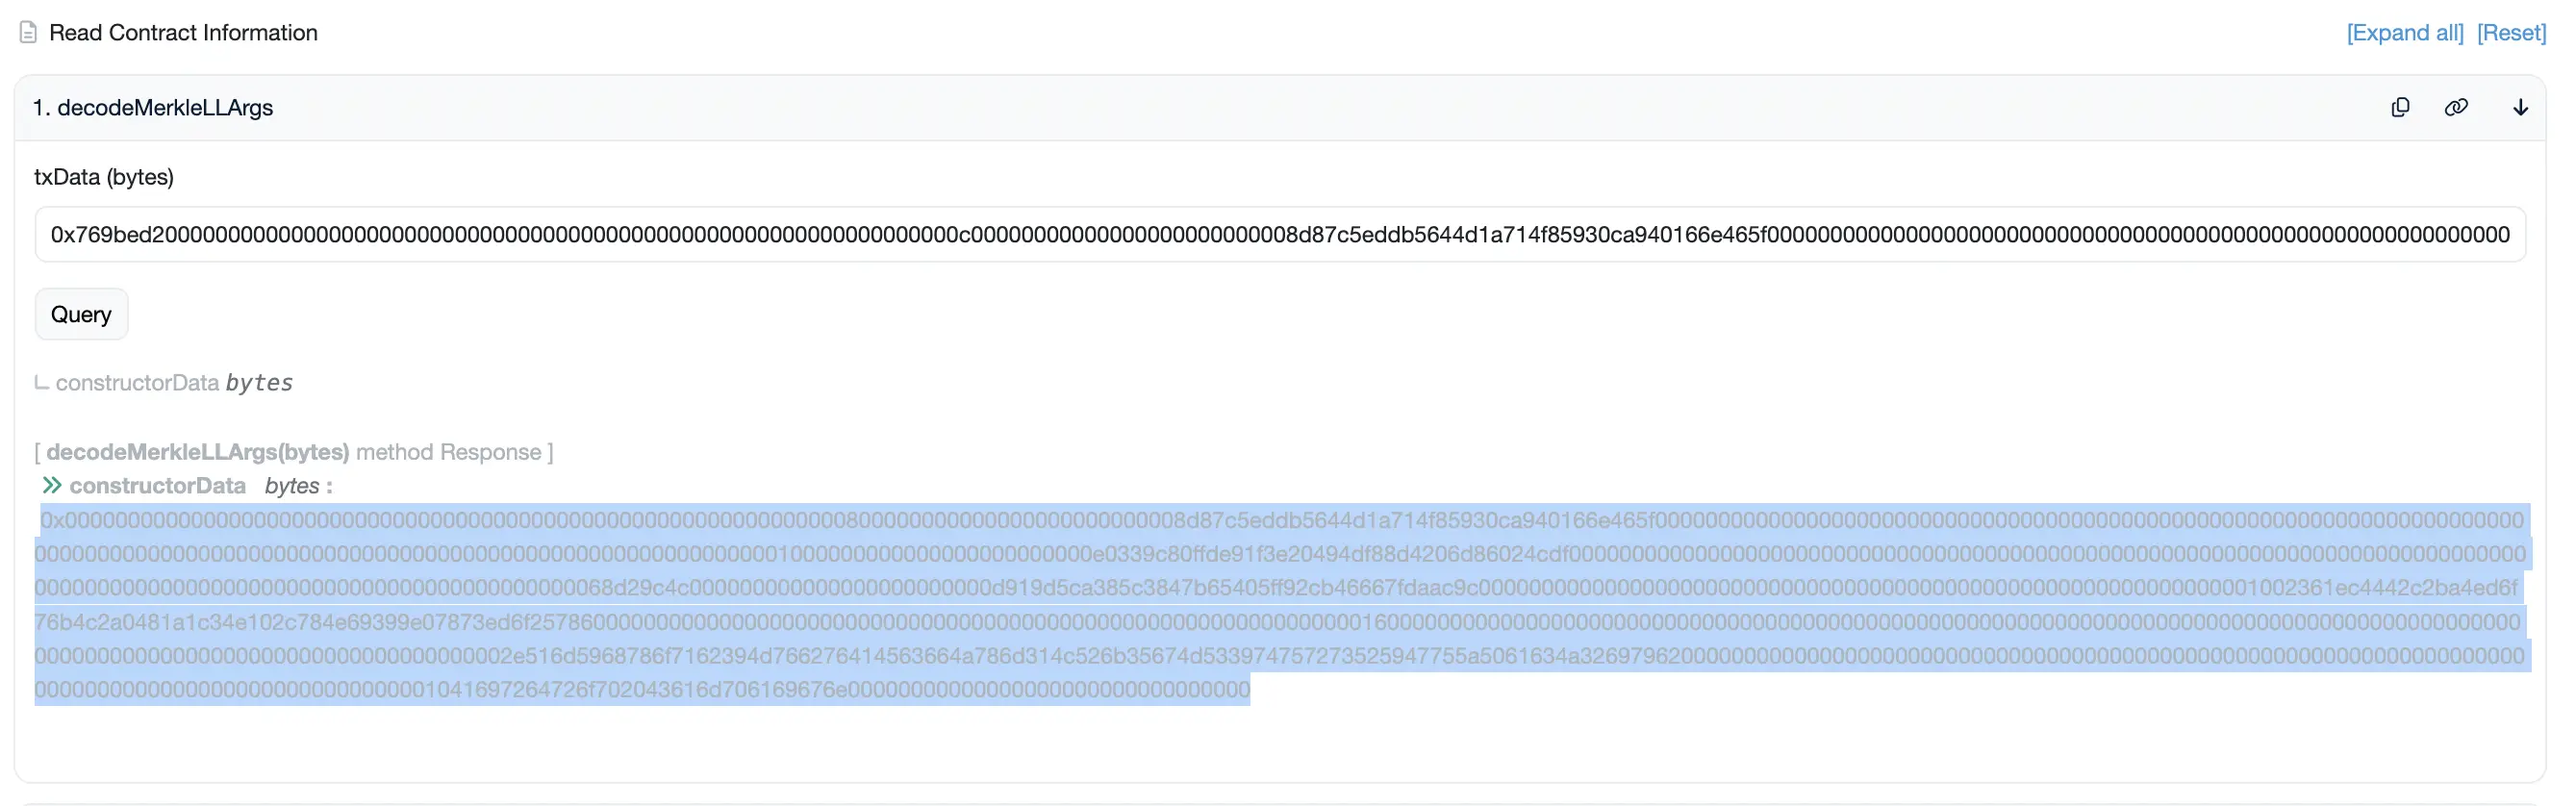
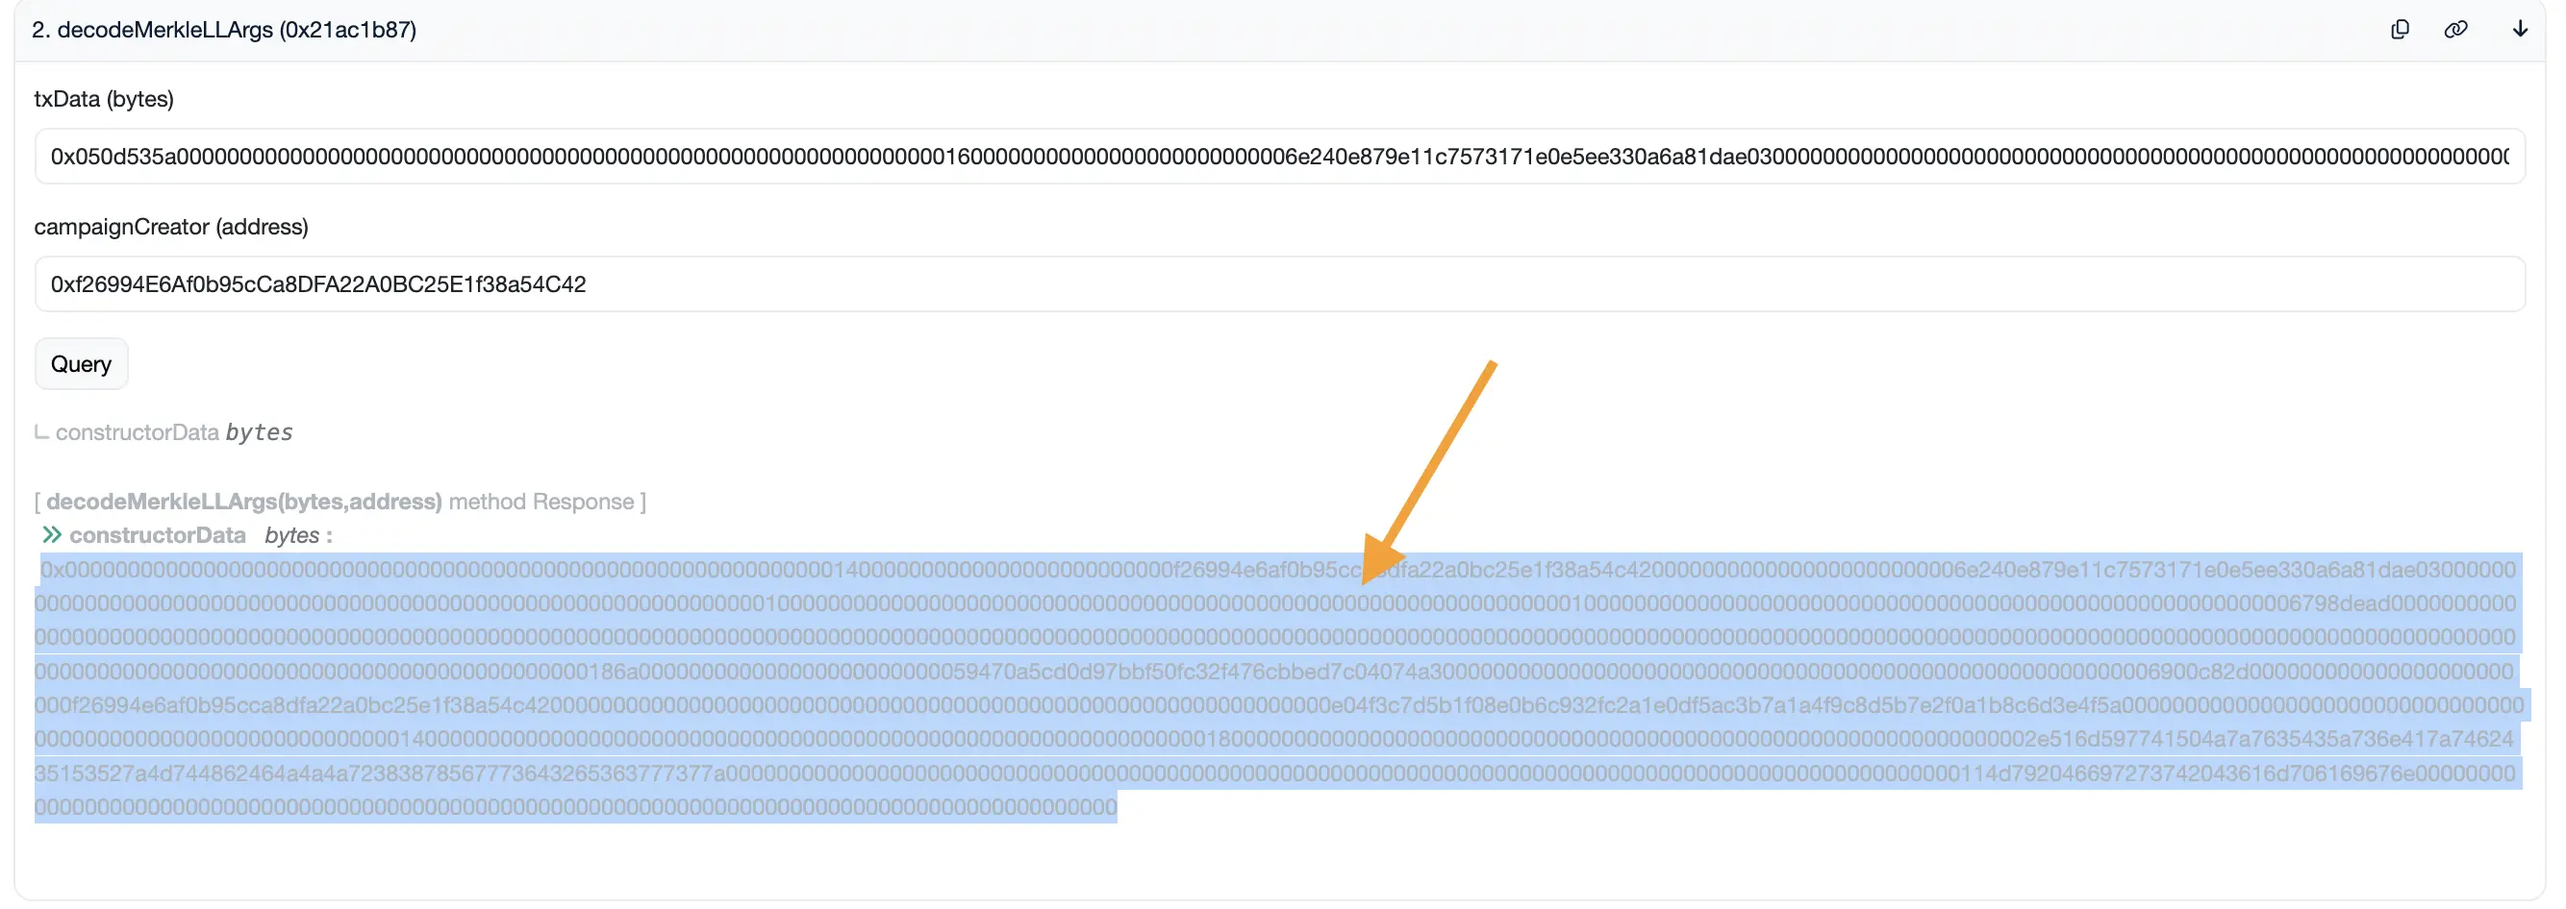
docs: use latest NFT SVG, add campaign verification and etherscan guides

diff --git a/docs/guides/lockup/05-etherscan.md b/docs/guides/lockup/05-etherscan.md
@@ -26,8 +26,7 @@ allowance. See the [Allowances](#prerequisite-erc20-allowances) section below fo
 ### Step 1: Go to contract page
 
 Head over to our [deployments](/guides/lockup/deployments) list to pick the contract address you want to interact with.
-For each chain, that will be either `SablierV2LockupLinear`, `SablierV2LockupDynamic`, or `SablierV2LockupTranched`. In
-this tutorial, we will create a **LockupLinear** stream on Sepolia.
+In this tutorial, we will create a Lockup stream on Sepolia.
 
 Once you find the right contract, click on the address to access its explorer's page. Click on the "Contract" tab, and
 then on the "Write Contract" sub-tab.
@@ -44,34 +43,45 @@ You can now connect your wallet to the interface by clicking on "Connect to Web3
 
 We will now proceed to create our first stream. Let's go with the following parameters:
 
-- a `LockupLinear` stream
-- and a deposit of 20,000 DAI
-- starting Jan 1, 2025
-- ending Jan 1, 2026
-- with no cliff
+- a Lockup Linear stream
+- and a deposit of 100 DAI
+- starting Jan 27, 2025
+- ending Jan 27, 2026
+- with cliff until Jan 30, 2025 and cliff amount of 2 DAI
+- no token unlock at start time
 - non-cancelable
 - and transferrable
 
 As the start and end date are fixed, we'll be using the
-[`createWithTimestamps`](/reference/lockup/contracts/interfaces/interface.ISablierLockup#createwithtimestampsll) method.
-Please note that using
-[`createWithDurations`](/reference/lockup/contracts/interfaces/interface.ISablierLockup#createwithdurationsll) is also
+[`createwithtimestampsLL`](/reference/lockup/contracts/interfaces/interface.ISablierLockup#createwithtimestampsll)
+method. Please note that using
+[`createwithdurationsLL`](/reference/lockup/contracts/interfaces/interface.ISablierLockup#createwithdurationsll) is also
 possible if you specify durations instead of the timestamps.
 
-Open the **"createWithTimestamps"** method, and start filling in the stream details:
+Open the **"createwithtimestampsLL"** method, and start filling in the stream details:
+
+:::note
+
+All functions are marked as `payable`, however, its entirely optional to attach any value (in native token) to the
+transaction. For this example, we will not be attaching any value and therefore `payableAmount(ether)` will be 0.
+
+:::
 
 ![Etherscan 04](/img/etherscan-tutorial/04.webp)
 
 ```json
 {
-  "sender": "0xe0ae83a6b9cc4f24d0638dc27179f311671e4e2a",
+  "sender": "0xf26994E6Af0b95cCa8DFA22A0BC25E1f38a54C42",
   "recipient": "0xb4bf8a8475d1e8e9a2088f118ad0e2cdc2896183",
-  "totalAmount": 20000000000000000000000,
-  "asset": "0x97cb342cf2f6ecf48c1285fb8668f5a4237bf862",
+  "totalAmount": 100000000000000000000,
+  "token": "0x3DcBc355c5B5FdF45D2d2ccc8890d76C5b30394A",
   "cancelable": false,
   "transferable": true,
-  "timestamps": [1704067200, 0, 1735689600],
-  "broker": ["0x0000000000000000000000000000000000000000", 0]
+  "timestamps": [1737936000, 1769472000],
+  "shape": "",
+  "broker": ["0x0000000000000000000000000000000000000000", 0],
+  "unlockAmounts": ["0", "2000000000000000000"],
+  "cliffTime": 1738195200
 }
 ```
 
@@ -80,14 +90,17 @@ provide it like this:
 
 ```json
 [
-  "0xe0ae83a6b9cc4f24d0638dc27179f311671e4e2a",
+  "0xf26994E6Af0b95cCa8DFA22A0BC25E1f38a54C42",
   "0xb4bf8a8475d1e8e9a2088f118ad0e2cdc2896183",
-  "20000000000000000000000",
-  "0x97cb342cf2f6ecf48c1285fb8668f5a4237bf862",
+  100000000000000000000,
+  "0x3DcBc355c5B5FdF45D2d2ccc8890d76C5b30394A",
   false,
   true,
-  [1704067200, 0, 1735689600],
-  ["0x0000000000000000000000000000000000000000", 0]
+  [1737936000, 1769472000],
+  "",
+  ["0x0000000000000000000000000000000000000000", 0],
+  ["0", "2000000000000000000"],
+  1738195200
 ]
 ```
 
@@ -106,7 +119,7 @@ from Etherscan to learn how to correctly format input data for Write Contract ta
 
 As an example, in the screenshot below, we are providing input parameters for
 [`createWithTimestampsLL`](/reference/lockup/contracts/contract.SablierBatchLockup#createwithtimestampsll) function in
-[`SablierV2BatchLockup`](https://sepolia.etherscan.io/address/0x04A9c14b7a000640419aD5515Db4eF4172C00E31#writeContract)
+[`SablierBatchLockup`](https://sepolia.etherscan.io/address/0x04A9c14b7a000640419aD5515Db4eF4172C00E31#writeContract)
 contract. As you can see, since `batch` requires a tuple and does not break it down into separate fields, we had to use
 the above method.
 
@@ -137,12 +150,12 @@ total amount should be equal to the streamed amount plus the broker fee amount.
 
 :::
 
-#### Asset
+#### Token
 
-The asset is the contract address of the ERC-20 token being streamed. You can obtain this from the
-[Sablier Interface](#step-1-go-to-token-page) or from any other
-[Etherscan explorer](https://etherscan.io/token/0x68194a729C2450ad26072b3D33ADaCbcef39D574). Please double check the
-token address is correct before continuing.
+The token is the contract address of the ERC-20 token being streamed. You can obtain this from the
+[Sablier Interface](#step-1-go-to-token-page) or from
+[Etherscan explorer](https://sepolia.etherscan.io/token/0x776b6fc2ed15d6bb5fc32e0c89de68683118c62a). Please double check
+the token address is correct before continuing.
 
 #### Cancelable
 
@@ -161,23 +174,30 @@ This flag cannot be changed later.
 
 #### Timestamps
 
-The `timestamps` field contains the start time, cliff time, and the end time of the stream, in this order. The values
-should be UNIX timestamps (represented in **seconds**). You can find a Unix timestamp converter
-[here](https://www.unixtimestamp.com/).
+The `timestamps` field contains the start time, and the end time of the stream, in this order. The values should be UNIX
+timestamps (represented in **seconds**). You can find a Unix timestamp converter [here](https://www.unixtimestamp.com/).
 
-If you prefer to not have a cliff, you can simply set the cliff time to 0, like in this example. If, however, you want
-to have a cliff, fill in the timestamp for the cliff there.
+#### Shape
 
-| Total Duration | Cliff Duration | [Start, Cliff, End]                    |
-| :------------- | :------------- | -------------------------------------- |
-| 1 year         | no cliff       | `[1704067200, 0, 1735689600]`          |
-| 1 year         | 1 day          | `[1704067200, 1704153600, 1735689600]` |
+The shape field can be used to specify the shape of the stream that you want the User Interface to display. This is an
+optional field and can be left empty.
 
 #### Broker
 
 An optional parameter that can be set in order to charge a fee as a percentage of `totalAmount`.
 
 You can set the `broker` field to address zero and `zero` fees. Read more about fees [here](/concepts/fees#broker-fee).
+
+#### Unlock Amounts
+
+The `unlockAmounts` field contains the amount of tokens that will be unlocked at the start time and at the cliff time.
+For this example, we do not want to unlock any amount at the start time, however, we want to unlock 2 DAI at the cliff
+time.
+
+#### Cliff Time
+
+If you prefer to not have a cliff, you can simply set the cliff time to 0. If, however, you want to have a cliff, fill
+in the timestamp for the cliff there.
 
 :::caution
 
@@ -194,10 +214,10 @@ your wallet, and your stream should appear like this:
 
 ![Etherscan 05](/img/etherscan-tutorial/05.webp)
 
-#### How about `createWithDurations`?
+#### How about [`createWithDurationsLL`](/reference/lockup/contracts/contract.SablierLockup#createwithdurationsll)?
 
-For the durations version, we'll replace the `timestamps` parameter with `durations` to represent the total duration of
-the stream (in seconds) and the duration of the cliff (in seconds).
+For the durations version, we'll replace the `timestamps` and `cliffTime` parameters with a single `durations` parameter
+to represent the total duration of the stream (in seconds) and the duration of the cliff (in seconds).
 
 ```json
 {
@@ -216,7 +236,7 @@ the stream (in seconds) and the duration of the cliff (in seconds).
 
 To withdraw from a stream using Etherscan, you will need to obtain the stream's ID. To obtain this without the Sablier
 Interface, find the transaction which created the stream on Etherscan. Here's an
-[example](https://sepolia.etherscan.io/tx/0xe1beef35643bd40ca17e8bf8ced365fe1cace475dbbf4ce4c41e7f299b741dce) of what it
+[example](https://sepolia.etherscan.io/tx/0xf40e0a5ccf134aaa889f2e5d040f5f4fc3bc157298cdac7a2a620a3d784ebbd1) of what it
 should look like.
 
 Once found, you will see the stream ID between the two brackets. Note that stream ID and "Token ID" are the same thing.
@@ -255,8 +275,8 @@ Head over to the **`withdraw`** method, and fill in the data.
 
 ```json
 {
-  "streamId": 169,
-  "to": "0xb4bf8a8475d1e8e9a2088f118ad0e2cdc2896183",
+  "streamId": 1,
+  "to": "0xb1bEF51ebCA01EB12001a639bDBbFF6eEcA12B9F",
   "amount": 100000000000000000000
 }
 ```
@@ -326,7 +346,7 @@ use a proxy pattern. For these, you have to use the "Write as Proxy" tab.
 ### Step 3: Send transaction
 
 For the purpose of creating a **LockupLinear** stream with Lockup, the spender will be the
-[SablierV2LockupLinear](/guides/lockup/deployments) contract.
+[SablierLockup](/guides/lockup/deployments) contract.
 
 As for the amount, you'll have to pad it with the right number of decimals. For DAI, that's 18 decimals, so a value of
 `100` will turn into `100 * 1e18` (100 followed by 18 zeroes). For USDC,that's 6 decimals, so a value of `100` will turn
@@ -335,7 +355,7 @@ the stream.
 
 ```json
 {
-  "spender": "0x3E435560fd0a03ddF70694b35b673C25c65aBB6C",
+  "spender": "0xd116c275541cdBe7594A202bD6AE4DBca4578462",
   "amount": 100000000000000000000
 }
 ```

diff --git a/docs/guides/airdrops/04-campaign-verification.md b/docs/guides/airdrops/04-campaign-verification.md
@@ -10,8 +10,8 @@ When the airdrop campaign contract is deployed for the first time on a chain, th
 it public and viewable on Etherscan. This guide will walk you through the process of verifying the campaign contract on
 Etherscan. If you get stuck, you can ask for help on [Discord](https://discord.sablier.com).
 
-As an example, we will use the `SablierMerkleLL` contract deployed on Polygon at
-[0x8BBe24ceee464e8A136fA19D2D099E2917837776](https://polygonscan.com/address/0x8bbe24ceee464e8a136fa19d2d099e2917837776).
+As an example, we will use the `SablierMerkleLL` contract deployed on Arbitrum Sepolia at
+[0x0ef0647b7324238bfa6084b54ad2d4fd58d8e4ef](https://sepolia.arbiscan.io/address/0x0ef0647b7324238bfa6084b54ad2d4fd58d8e4ef).
 
 :::tip Good to Know
 
@@ -23,7 +23,7 @@ only required once per chain.
 ## Step 1: Identify the transaction hash
 
 Find the transaction that created the contract. For our example, this is the
-[transaction](https://polygonscan.com/tx/0xac2f5a97a863f8ecc1a3f6a9d906c15a8ea5f1304ddf26183f1b53662ef4ced0).
+[transaction](https://sepolia.arbiscan.io//tx/0x6bad05e2963db82cfada58e9ed990651c8efb04b3203037b3cf9c6c4b2d1a232).
 
 ## Step 2: Identify the function name
 
@@ -35,23 +35,33 @@ In this case, the function name is `createMerkleLL`. Then, locate and note down 
 
 <img src="/img/campaign-verification/02.webp" alt="Campaign Verification 02" width="800">
 
-## Step 3: Copy the input data
+## Step 3: Copy the input data and campaign creator address
 
 Click on the "View Input As" button, then change the view to "Original", and copy the input data.
 
-<img src="/img/campaign-verification/03.webp" alt="Campaign Verification 03" width="800">
+<img src="/img/campaign-verification/03_1.webp" alt="Campaign Verification 03_1" width="800">
+
+Copy the address of the campaign creator from the "From" field.
+
+<img src="/img/campaign-verification/03_2.webp" alt="Campaign Verification 03_2" width="800">
 
 ## Step 4: Get the constructor argument
 
 Go to
-[SablierMerkleLockupDecoder](https://sepolia.etherscan.io/address/0xa9fb181be1c9e8b294925964294c9aae86c7a5e9#readContract)
+[SablierMerkleAirdropDecoder](https://sepolia.etherscan.io/address/0x8a85407d8ec568233c15e843534e219697e3da07#readContract)
 and make sure you are on the "Read Contract" section.
 
-1. Click on `decodeMerkleLLArgs` if the function name from step 1 is `createMerkleLL`.
-2. Click on `decodeMerkleLTArgs` if the function name from step 1 is `createMerkleLT`.
+1. Click on `decodeMerkleInstantArgs` if the function name from step 1 is
+   [`createMerkleInstant`](/reference/airdrops/contracts/interfaces/interface.ISablierMerkleFactory#createmerkleinstant).
+1. Click on `decodeMerkleLLArgs` if the function name from step 1 is
+   [`createMerkleLL`](/reference/airdrops/contracts/interfaces/interface.ISablierMerkleFactory#createmerklell).
+1. Click on `decodeMerkleLTArgs` if the function name from step 1 is
+   [`createMerkleLT`](/reference/airdrops/contracts/interfaces/interface.ISablierMerkleFactory#createmerklelt).
 
-In this case, since the function name was `createMerkleLL`, we will click on `decodeMerkleLLArgs`. Then, in the
-`txData(bytes)` field, paste the input data copied from Step 2.
+In this case, since the function name was `createMerkleLL`, we will click on `decodeMerkleLLArgs`.
+
+- In the `txData (bytes)` field, paste the input data copied from Step 2.
+- In the `campaignCreator (address)` field, paste the campaign creator address copied from Step 2.
 
 Click on the "Query" button and copy the output, which is also the constructor argument of the campaign contract.
 
@@ -80,7 +90,7 @@ export CONSTRUCTOR_ARG= # The constructor argument copied from Step 3
 export CONTRACT_TO_VERIFY= # The contract address to verify
 ```
 
-The `CONTRACT_TO_VERIFY`, in this example, is `0x8bbe24ceee464e8a136fa19d2d099e2917837776`.
+The `CONTRACT_TO_VERIFY`, in this example, is `0x0Ef0647B7324238bFA6084b54aD2d4Fd58d8E4ef`.
 
 If the function name from Step 1 is `createMerkleLL`, run the following command:
 
@@ -97,7 +107,16 @@ If the function name is `createMerkleLT`, run the following command:
 FOUNDRY_PROFILE=optimized \
 forge verify-contract --etherscan-api-key $ETHERSCAN_API_KEY --verifier-url $ETHERSCAN_URL \
 --constructor-args $CONSTRUCTOR_ARG $CONTRACT_TO_VERIFY \
-src/SablierV2MerkleLT.sol:SablierV2MerkleLT --watch
+src/SablierMerkleLT.sol:SablierMerkleLT --watch
+```
+
+If the function name is `createMerkleInstant`, run the following command:
+
+```bash
+FOUNDRY_PROFILE=optimized \
+forge verify-contract --etherscan-api-key $ETHERSCAN_API_KEY --verifier-url $ETHERSCAN_URL \
+--constructor-args $CONSTRUCTOR_ARG $CONTRACT_TO_VERIFY \
+src/SablierMerkleInstant.sol:SablierMerkleInstant --watch
 ```
 
 The campaign contract should now be verified on Etherscan. Thank you for reading! 💚
